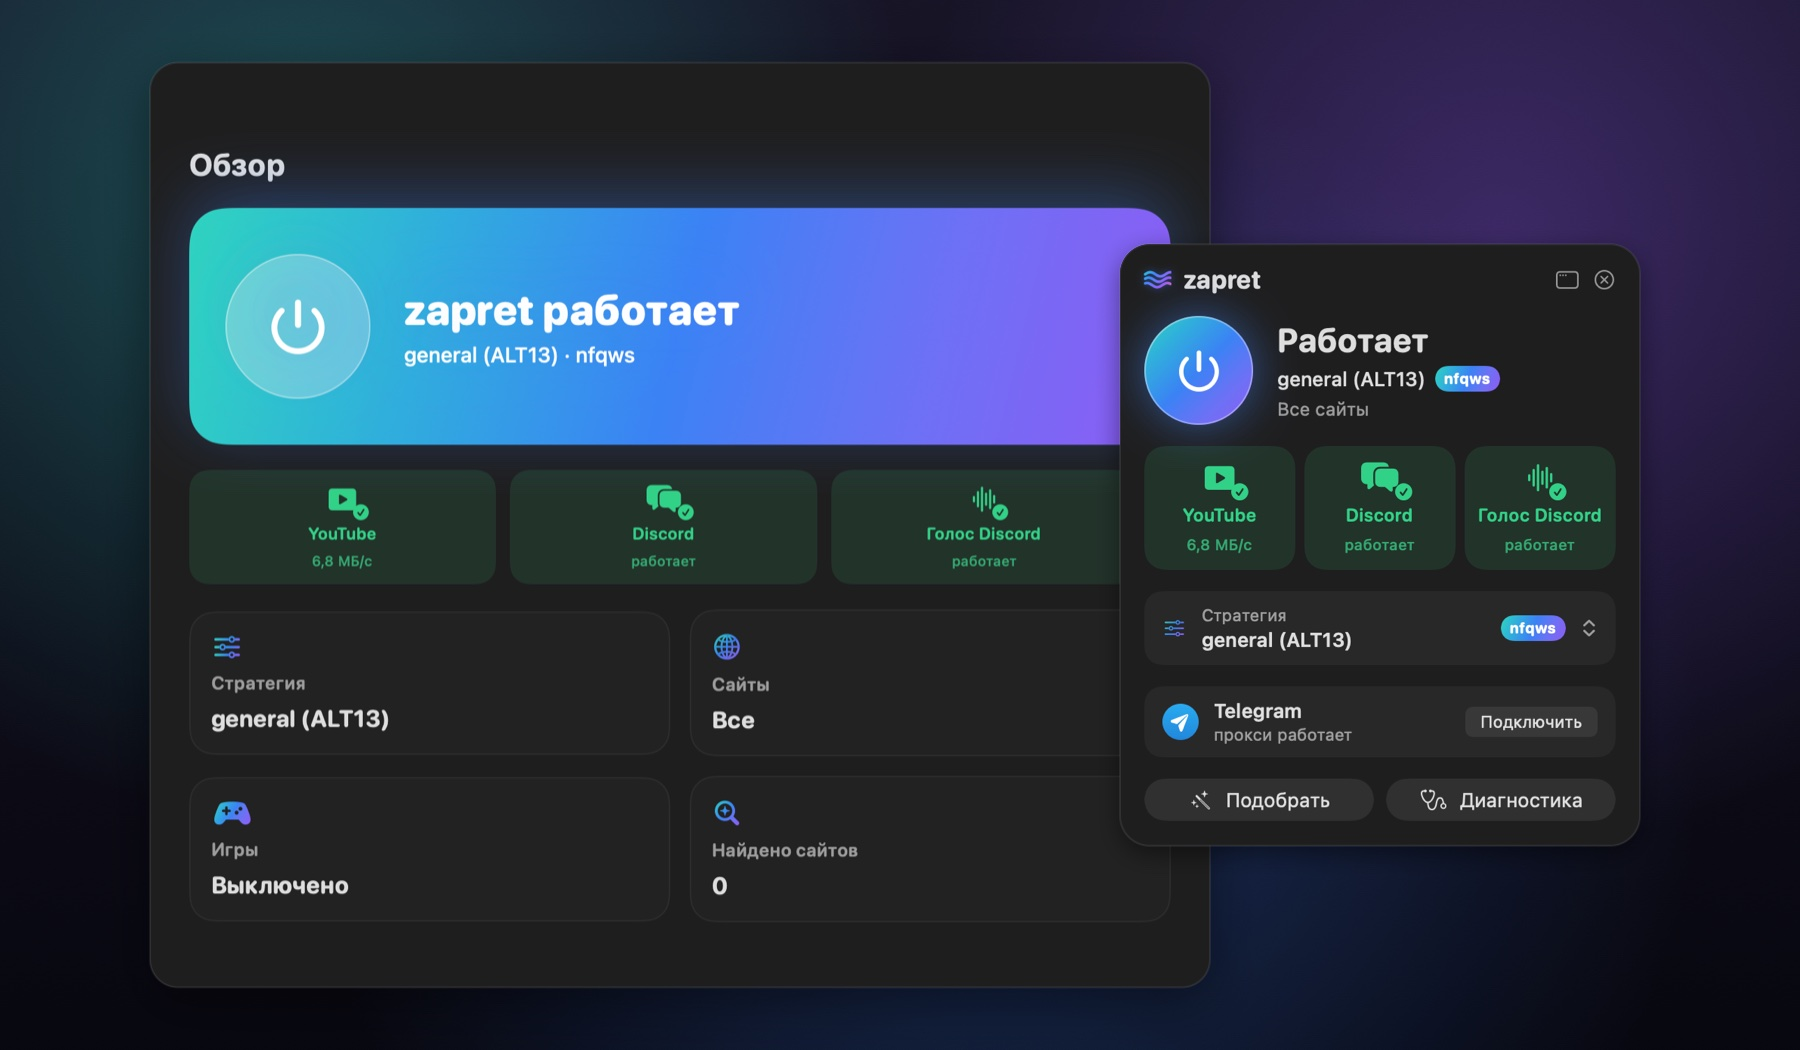
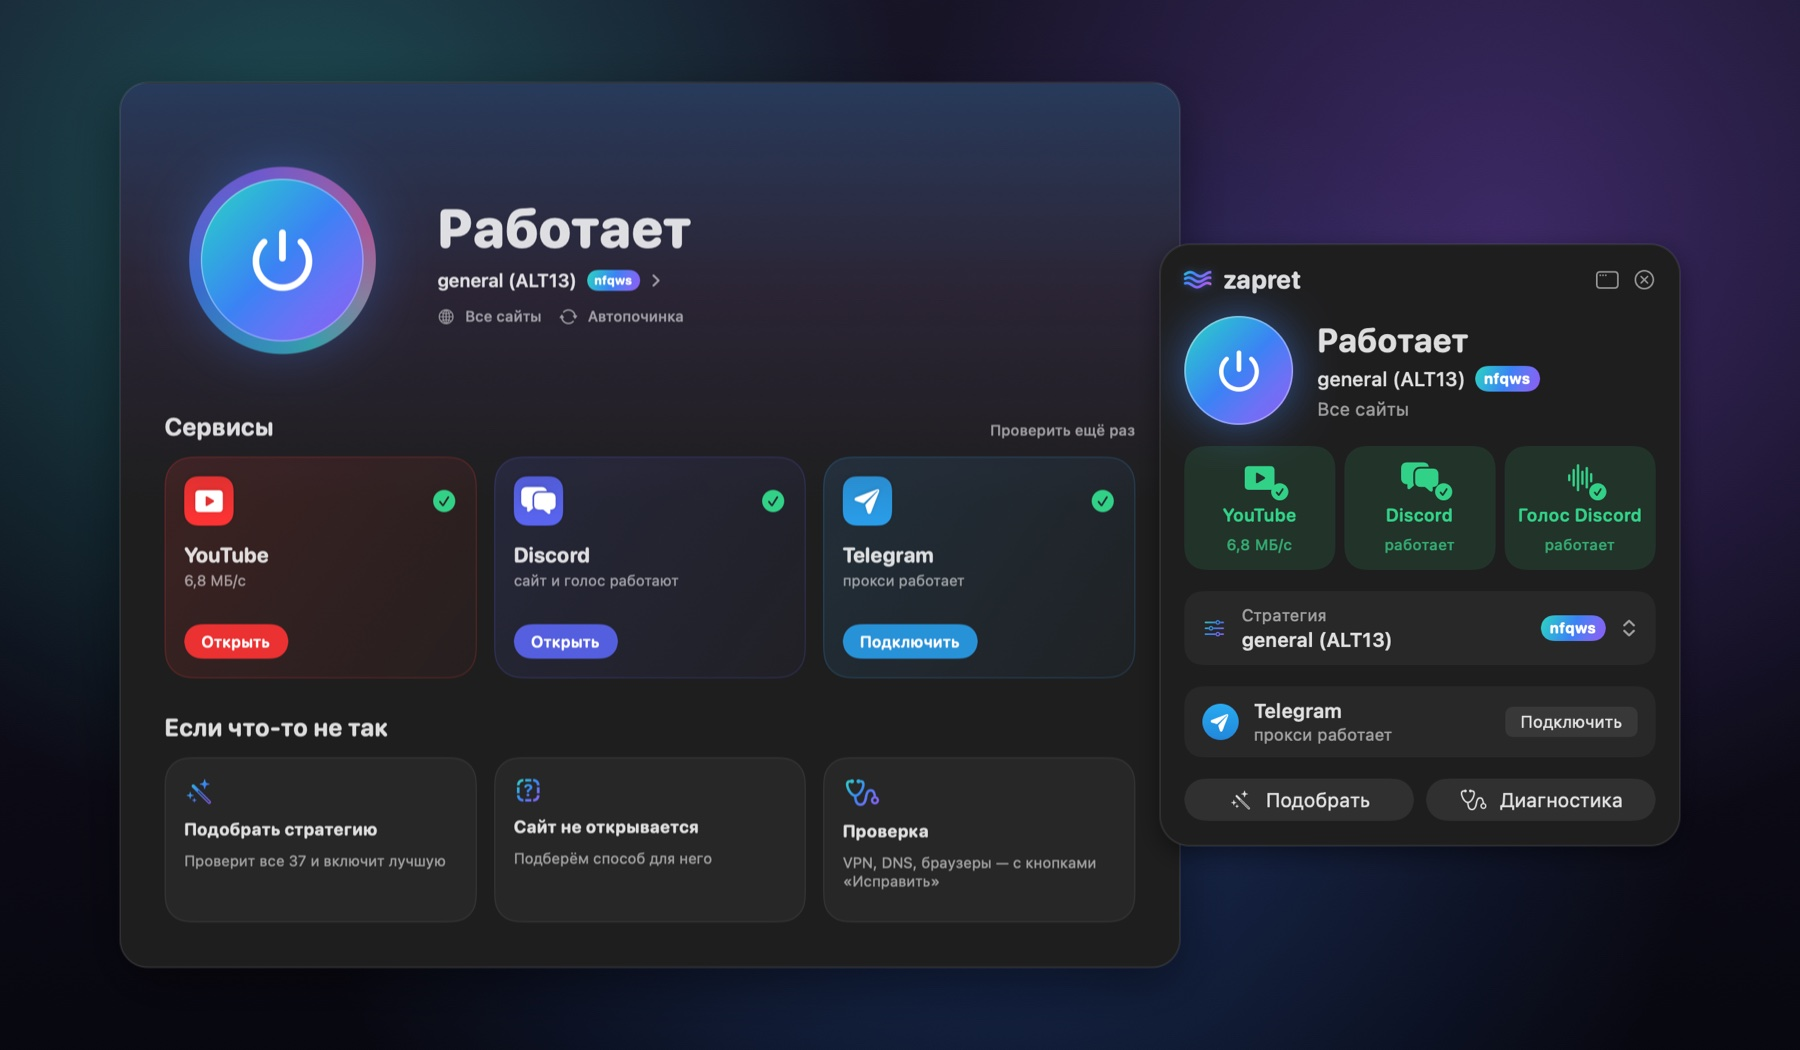
README: скриншоты нового интерфейса

diff --git a/README.md b/README.md
@@ -70,11 +70,11 @@ Telegram одной кнопкой.</td>
 </tr>
 <tr>
 <td><img src=".github/screenshots/sites.png" alt="Сайты"></td>
-<td><img src=".github/screenshots/telegram.png" alt="Telegram"></td>
+<td><img src=".github/screenshots/settings.png" alt="Настройки"></td>
 </tr>
 <tr>
 <td><b>Сайты.</b> Режимы, «Сайт не открывается?», свои списки и исключения.</td>
-<td><b>Telegram.</b> Прокси для Telegram Desktop: включить, подключить, проверить связь.</td>
+<td><b>Настройки.</b> Запуск, автопочинка и автообновление, прокси для Telegram, игры.</td>
 </tr>
 </table>
 
@@ -85,6 +85,7 @@ Telegram одной кнопкой.</td>
 - **Уведомления с кнопками**: zapret остановился — «Включить», YouTube перестал открываться — «Подобрать стратегию»,
   вышло обновление — «Обновить».
 - **Горячая клавиша ⌃⌥Z** — включить или выключить из любого приложения.
+- **Главная**: состояние и сервисы — YouTube, Discord и Telegram с кнопками «Открыть» и «Подключить».
 - **Светлая и тёмная тема**, Intel и Apple Silicon.
 
 ## Как это работает
